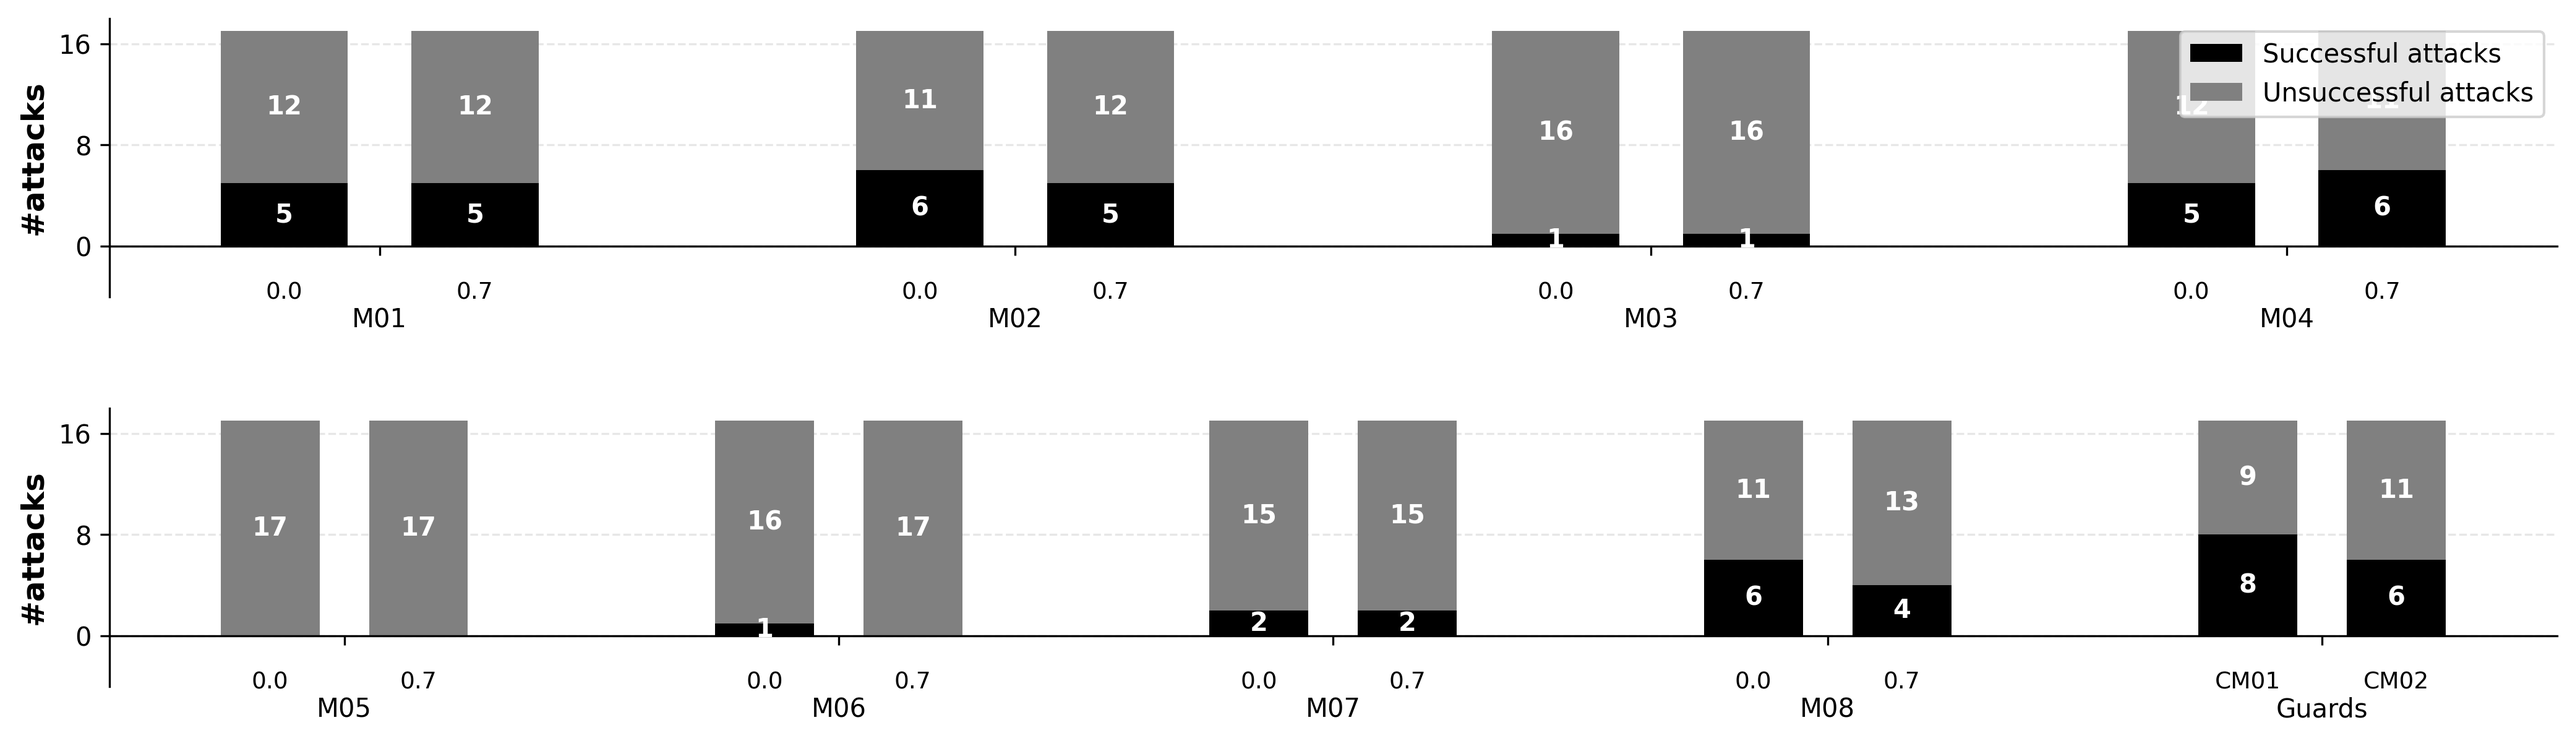
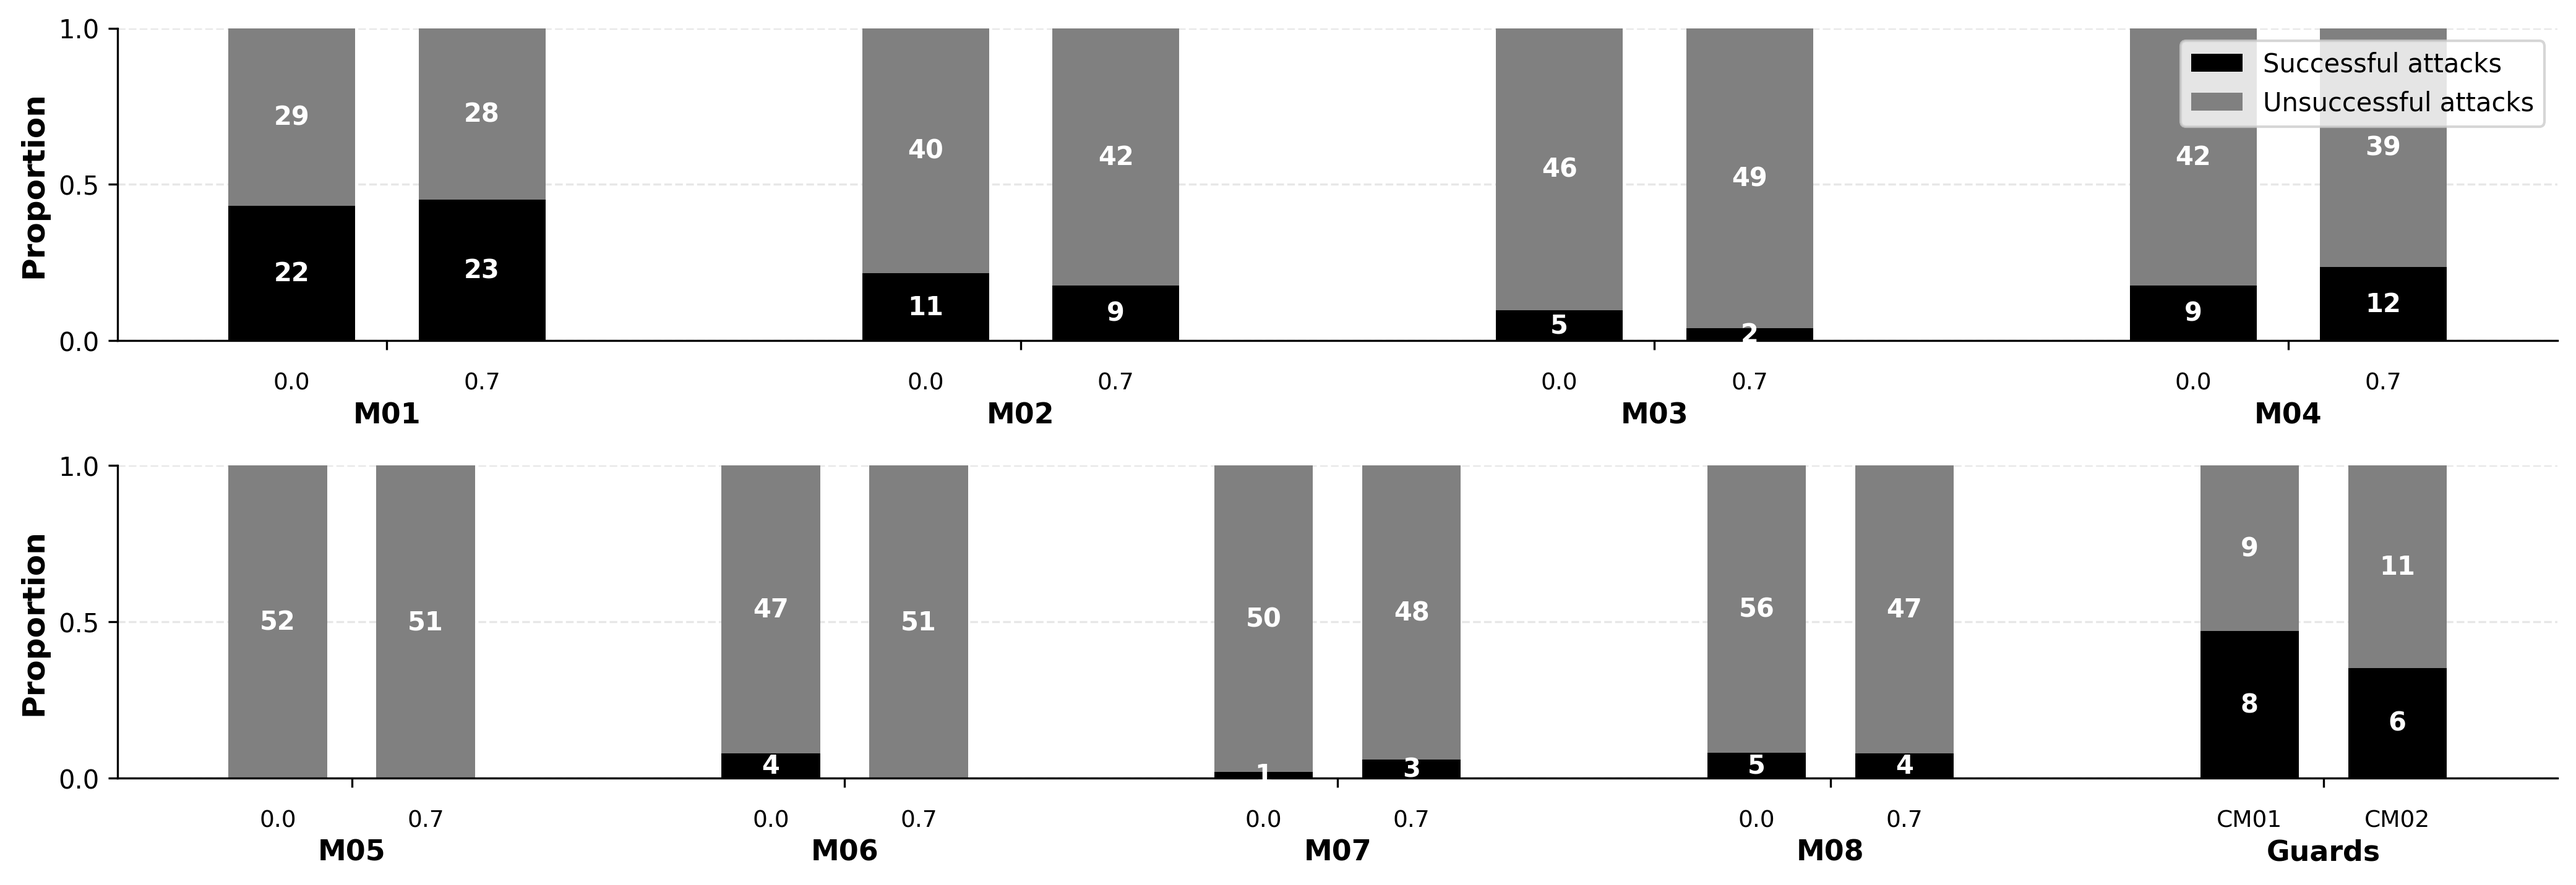
Add graph

diff --git a/paper/files/attacks_chart.py b/paper/files/attacks_chart.py
@@ -109,16 +109,16 @@ def create_bar_plot(ax, group_names, start_idx, end_idx):
         label="Unsuccessful attacks",
     )
 
-    # Add white text labels on each segment (showing proportions)
+    # Add white text labels on each segment (showing absolute numbers)
     for i, (pos, succ, unsucc) in enumerate(
         zip(positions, successful_normalized, unsuccessful_normalized)
     ):
         # Label for successful attacks (bottom, black section)
-        if succ > 0.05:
+        if successful_subset[i] > 0:
             ax.text(
                 pos,
                 succ / 2,
-                f"{succ:.2f}",
+                f"{int(successful_subset[i])}",
                 ha="center",
                 va="center",
                 color="white",
@@ -127,11 +127,11 @@ def create_bar_plot(ax, group_names, start_idx, end_idx):
             )
 
         # Label for unsuccessful attacks (top, gray section)
-        if unsucc > 0.05:
+        if unsuccessful_subset[i] > 0:
             ax.text(
                 pos,
                 succ + unsucc / 2,
-                f"{unsucc:.2f}",
+                f"{int(unsuccessful_subset[i])}",
                 ha="center",
                 va="center",
                 color="white",
